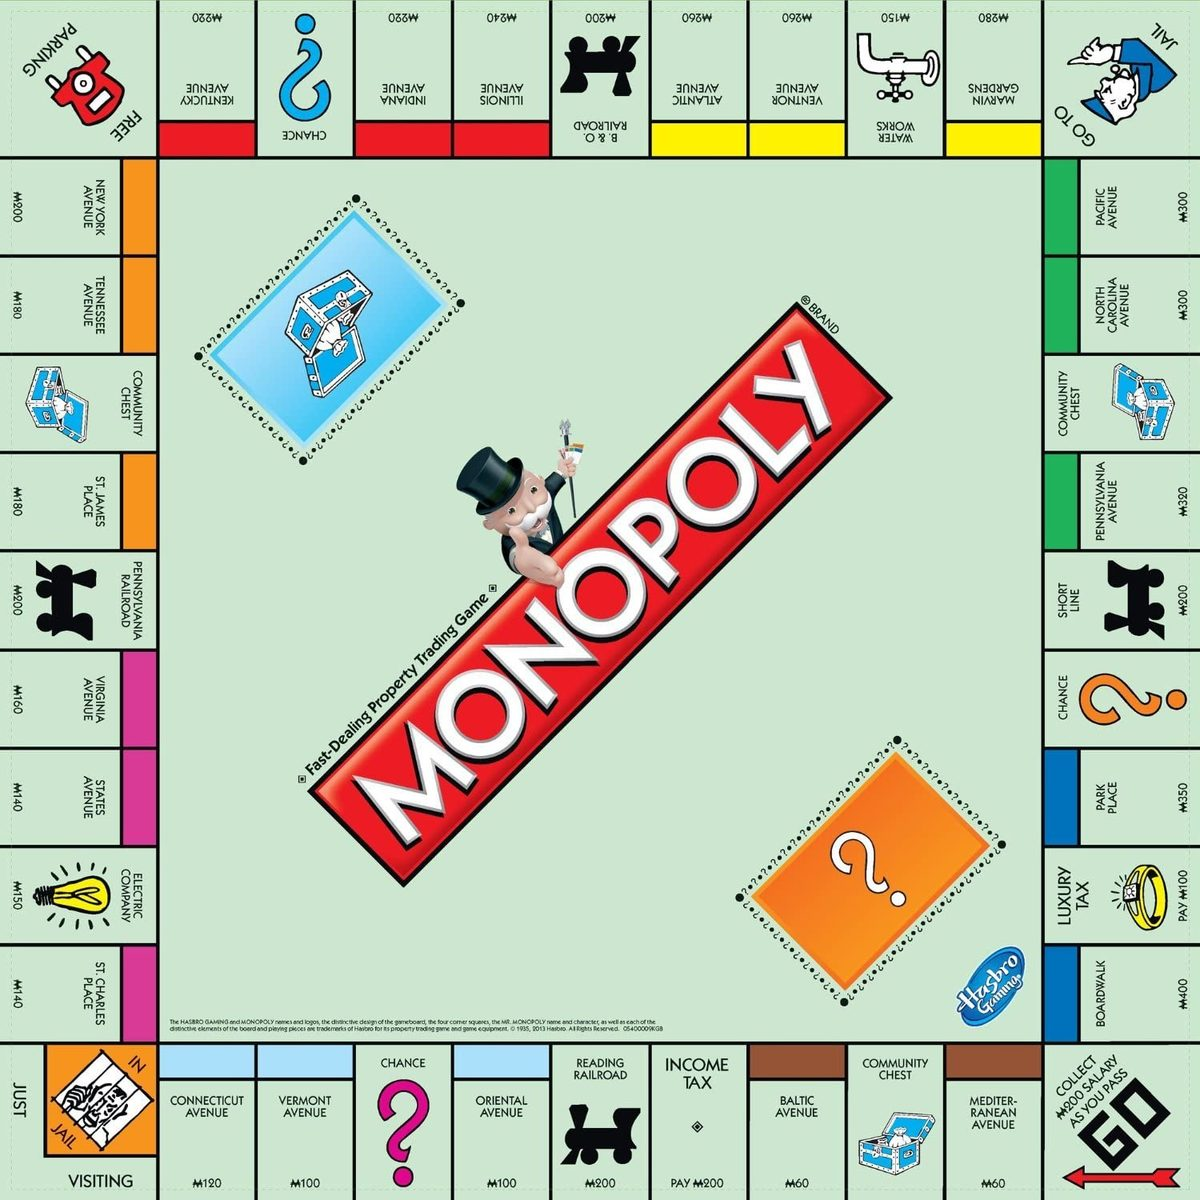
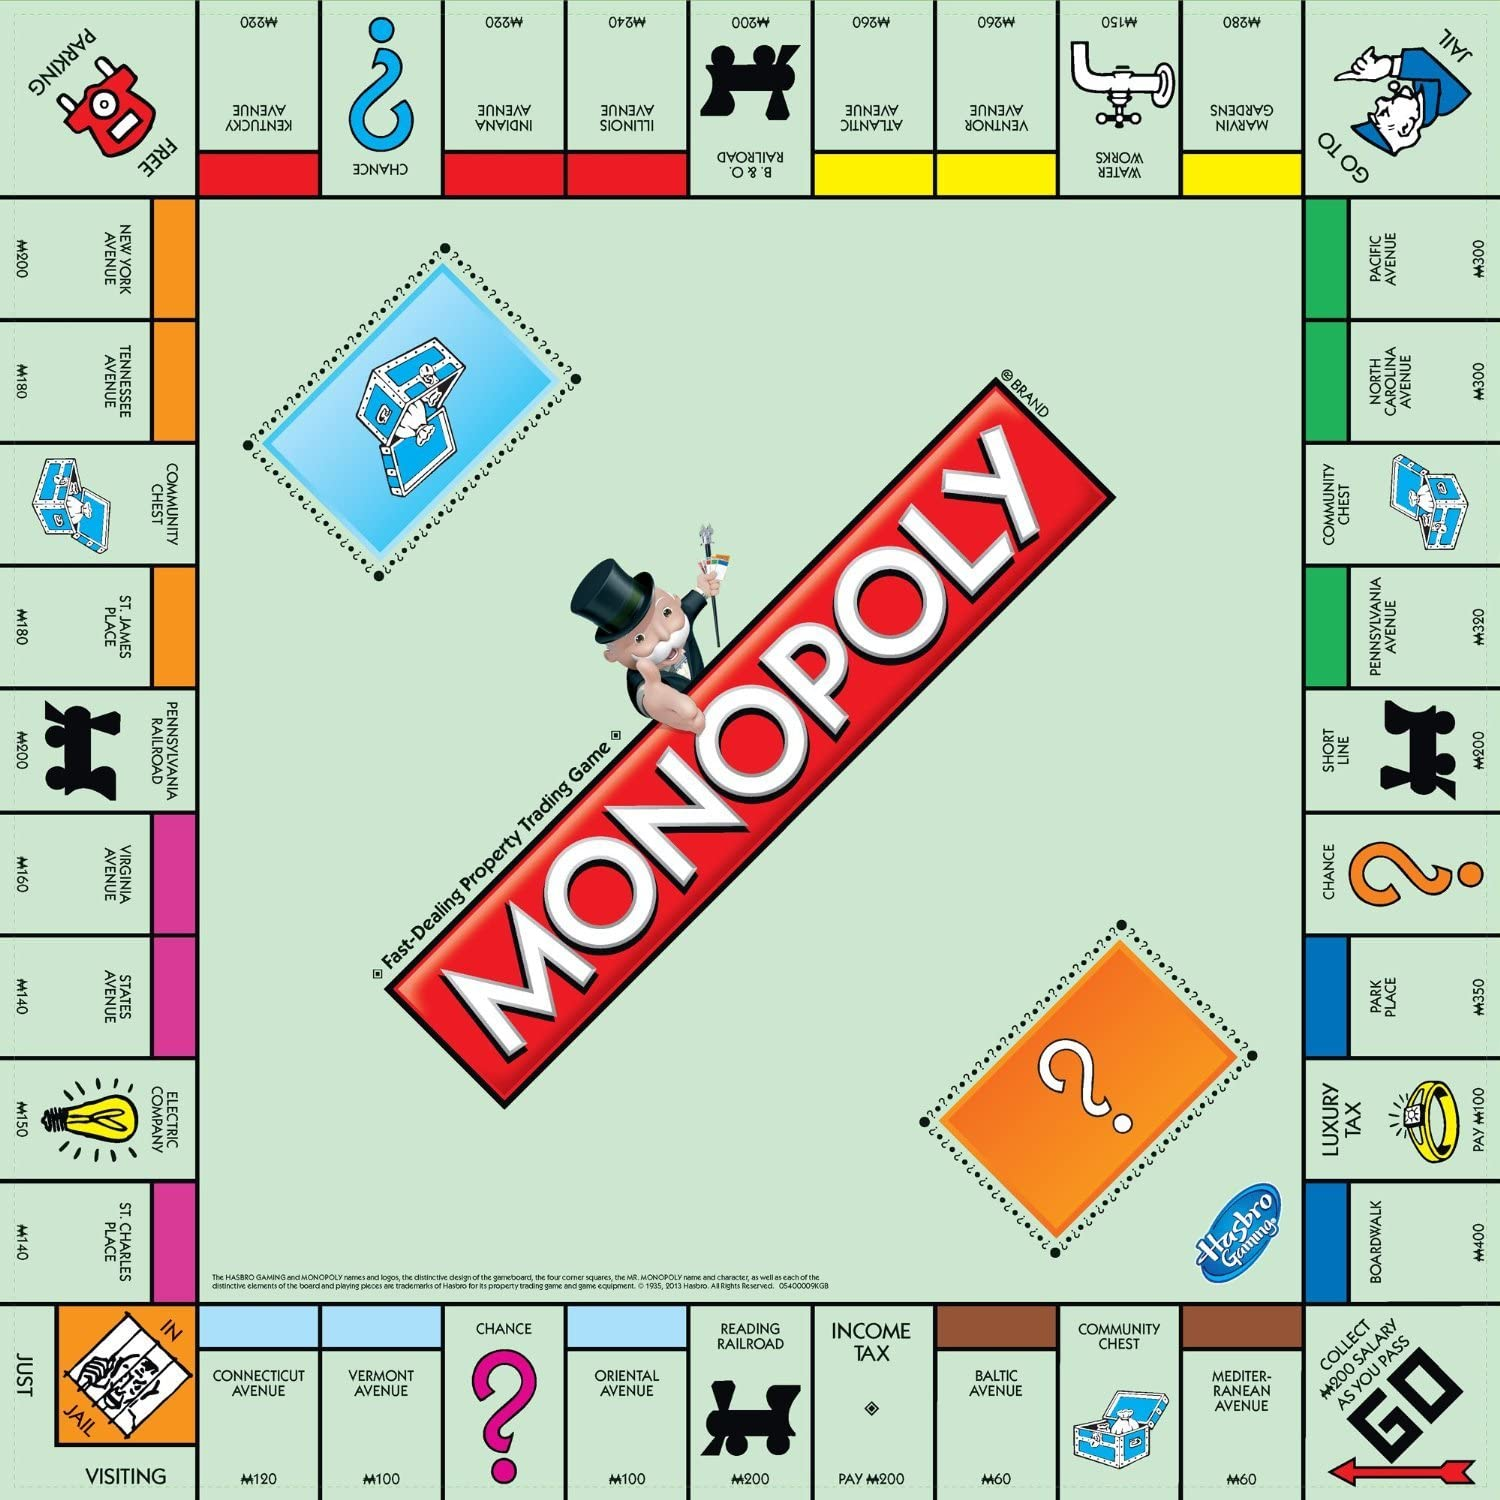
Monopoly : plateau net et plein cadre au repos

diff --git a/src/components/MonopolyBoard3D.jsx b/src/components/MonopolyBoard3D.jsx
@@ -3,6 +3,7 @@ import { useEffect, useRef } from 'react';
 import * as THREE from 'three';
 import { GLTFLoader } from 'three/addons/loaders/GLTFLoader.js';
 import { PIECES } from '../games/monopoly/data';
+import { overviewHeight, renderPixelRatio } from '../games/monopoly/cameraQuality';
 import { BOARD_SIZE, squareCenter, squarePosition, pickSquare, sampleTravel } from '../games/monopoly/pawnMotion';
 
 const OFFSETS=[[-.6,-.6],[.6,-.6],[-.6,.6],[.6,.6],[0,0],[-.6,0],[.6,0]];
@@ -14,7 +15,7 @@ export default function MonopolyBoard3D({ game, positions, travel, selected, onS
   let stopped=false,renderer,observer,raf=0,dirty=true,textureReady=false,failed=false;
   const scene=new THREE.Scene();
   const camera=new THREE.PerspectiveCamera(46,1,.1,150);
-  const overview=new THREE.Vector3(0,26.5,7),look=new THREE.Vector3(0,0,0);
+  const overview=new THREE.Vector3(0,overviewHeight(camera.fov),.0001),look=new THREE.Vector3(0,0,0);
   camera.position.copy(overview);camera.lookAt(look);
   const resources=new Set(),loaded=new Map(),pawns=new Map(),pending=new Set();
   const keep=o=>{resources.add(o);return o;};
@@ -32,14 +33,14 @@ export default function MonopolyBoard3D({ game, positions, travel, selected, onS
   const selectedMat=keep(new THREE.MeshBasicMaterial({color:0xffd35c,transparent:true,opacity:.45,depthWrite:false}));
   const selection=new THREE.Mesh(keep(new THREE.PlaneGeometry(1,1)),selectedMat);
   selection.rotation.x=-Math.PI/2;selection.position.y=.045;selection.visible=false;scene.add(selection);
-  const texture=new THREE.TextureLoader().load('/games/monopoly/board.jpg',()=>{if(stopped)return;texture.colorSpace=THREE.SRGBColorSpace;board.material.map=texture;board.material.needsUpdate=true;textureReady=true;dirty=true;},undefined,fail);keep(texture);
+  const texture=new THREE.TextureLoader().load('/games/monopoly/board.jpg',()=>{if(stopped)return;texture.colorSpace=THREE.SRGBColorSpace;texture.anisotropy=Math.min(8,renderer?.capabilities.getMaxAnisotropy()||1);board.material.map=texture;board.material.needsUpdate=true;textureReady=true;dirty=true;},undefined,fail);keep(texture);
   const ray=new THREE.Raycaster(),point=new THREE.Vector2();
   const click=e=>{
    const rect=el.getBoundingClientRect();point.set((e.clientX-rect.left)/rect.width*2-1,-(e.clientY-rect.top)/rect.height*2+1);
    ray.setFromCamera(point,camera);const hit=ray.intersectObject(board)[0];
    if(hit){const id=pickSquare(hit.point.x,hit.point.z);if(id!==null)latest.current.onSelect?.(id);}
   };
-  const resize=()=>{const w=el.clientWidth,h=el.clientHeight;if(!w||!h||!renderer)return;renderer.setPixelRatio(Math.min(window.devicePixelRatio||1,1.5));renderer.setSize(w,h,false);camera.aspect=w/h;camera.updateProjectionMatrix();dirty=true;};
+  const resize=()=>{const w=el.clientWidth,h=el.clientHeight;if(!w||!h||!renderer)return;renderer.setPixelRatio(renderPixelRatio(window.devicePixelRatio));renderer.setSize(w,h,false);camera.aspect=w/h;overview.y=overviewHeight(camera.fov,camera.aspect);if(!latest.current.travel){camera.position.copy(overview);camera.lookAt(0,0,0);}camera.updateProjectionMatrix();dirty=true;};
   const lost=e=>{e.preventDefault();fail();};
   try{
    renderer=new THREE.WebGLRenderer({antialias:true,alpha:true,powerPreference:'low-power'});renderer.setClearColor(0,0);
@@ -79,6 +80,9 @@ export default function MonopolyBoard3D({ game, positions, travel, selected, onS
     previousSelected=props.selected;selection.visible=props.selected!==null;
     if(selection.visible){const p=squarePosition(props.selected),c=squareCenter(props.selected);selection.position.set(p.x,.045,p.z);selection.scale.set((c.side==='left'||c.side==='right'||c.side==='corner'? .1328:(1-2*.1328)/9)*BOARD_SIZE,(c.side==='bottom'||c.side==='top'||c.side==='corner'?.1328:(1-2*.1328)/9)*BOARD_SIZE,1);}dirty=true;
    }
+   // Au repos, l image HTML reste nette sous les pions 3D. Le plateau texture
+   // reprend le relais uniquement pendant le travelling (la perspective autorise des marges).
+   board.material.colorWrite=!!props.travel;base.visible=!!props.travel;
    const motion=props.travel,sample=motion?sampleTravel(motion,now-motion.start):null;
    const active=!!sample&&!sample.done;
    const changedMotion=motion!==previousMotion;previousMotion=motion;

diff --git a/src/styles/monopoly.css b/src/styles/monopoly.css
@@ -87,9 +87,13 @@
 .mono-dice-result { color:#162a1a; font-size:clamp(11px,2.6cqw,16px); font-weight:700; text-shadow:0 1px 3px #fff; }
 
 /* MAF_MONOPOLY_PAWNS_3D_V1 : pions du ZIP et suivi automatique de camera. */
-.mono-scene3d { position:absolute; inset:0; opacity:0; pointer-events:none; }
+.mono-scene3d { position:absolute; inset:0; z-index:1; opacity:0; pointer-events:none; }
 .mono-scene3d canvas { width:100%; height:100%; display:block; }
 .mono-board.is-3d .mono-scene3d { opacity:1; pointer-events:auto; }
-.mono-board.is-3d > .mono-board__img, .mono-board.is-3d > .mono-sq, .mono-board.is-3d > .mono-pawn { visibility:hidden; }
+.mono-board.is-3d > .mono-sq, .mono-board.is-3d > .mono-pawn, .mono-board.is-3d.is-travelling > .mono-board__img { visibility:hidden; }
 .mono-board.is-travelling .mono-dice-stage { visibility:hidden; }
 .mono-case-picker { position:absolute; z-index:5; left:2%; top:2%; max-width:52%; padding:7px 9px; border:1px solid #8ba492; border-radius:8px; background:#f6fff4ed; color:#17321f; font:600 11px system-ui; }
+
+/* MAF_MONOPOLY_SHARP_FRAME_V1 : image plein cadre au repos, perspective en mouvement. */
+.mono-board.is-3d > .mono-board__img { object-fit:fill; }
+.mono-board.is-3d .mono-case-picker { left:17%; top:17%; max-width:66%; }

diff --git a/src/games/monopoly/cameraQuality.js b/src/games/monopoly/cameraQuality.js
@@ -1,0 +1,8 @@
+// Vue d'ensemble : les bords du plateau correspondent aux bords du cadre.
+import { BOARD_SIZE } from './pawnMotion.js';
+export function overviewHeight(fov, aspect = 1) {
+ return (BOARD_SIZE / 2) / (Math.tan(fov * Math.PI / 360) * Math.min(1, Math.max(.1, aspect)));
+}
+export function renderPixelRatio(deviceRatio) {
+ return Math.max(1, Math.min(Number.isFinite(deviceRatio) ? deviceRatio : 1, 2.5));
+}
